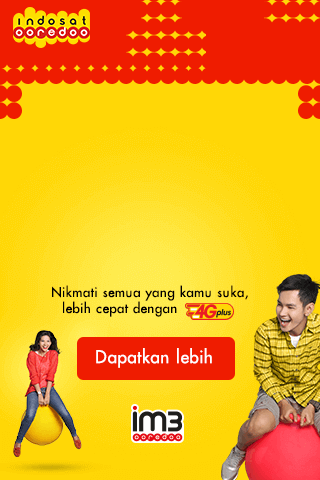
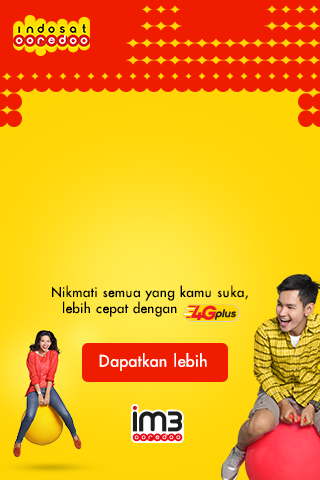
Update on bg images.

Changed region(s): [[0.0, 0.0, 1.0, 0.2812], [0.2188, 0.625, 0.75, 0.8125]]

diff --git a/tablet/css/indosat.css b/tablet/css/indosat.css
@@ -28,7 +28,7 @@ p.first-label {
 	font-family: 'FUTURASTD-MD';
 	position: absolute;
 	display: block;
-	margin-left: 160px;
+	margin-left: 166px;
 	margin-top: -363px;
 	font-size: 28px;
 	
@@ -47,7 +47,7 @@ p.first-label {
 
 .yt_frame.vid{
 	background: url('../img/video.png') no-repeat;
-	background-size: contain;
+	background-size: cover;
 	-webkit-animation: fadeIn 5s;
 	animation: fadeIn 5s;
 }
@@ -103,7 +103,7 @@ p.first-label {
 .btn-cta {
 	position: absolute;
 	width: 332px;
-	height: 82px;
+	height: 85px;
 	top: 766px;
 	left: 203px;
 	border-radius: 8px;

diff --git a/mobile/css/indosat.css b/mobile/css/indosat.css
@@ -99,11 +99,11 @@ p.first-label {
 
 .btn-cta {
 	position: absolute;
-	width: 156px;
-	height: 41px;
-	top: 336px;
-	left: 77px;
-	border-radius: 4px;
+	width: 146px;
+	height: 39px;
+	top: 341px;
+	left: 81px;
+	border-radius: 6px;
 	cursor: pointer;
 }
 
